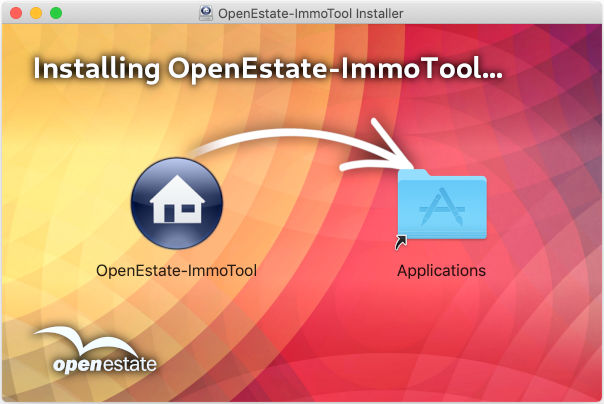
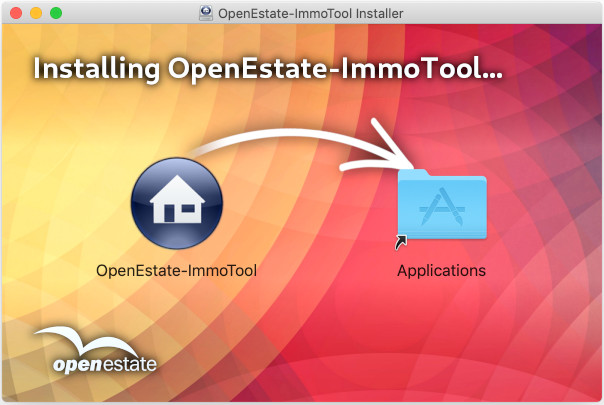
prefer PNG over JPG images

diff --git a/content/de/intro/install_server.md b/content/de/intro/install_server.md
@@ -32,7 +32,7 @@ Laden Sie die zu Ihrem Windows passende **EXE**-Installationsdatei herunter. Unt
 
 Öffnen Sie die heruntergeladene EXE-Datei mit einem Doppelklick. Es startet daraufhin ein Installationsprogramm, welches Sie durch die weiteren Schritte der Installation leitet.
 
-{{< figure src="install_server_windows.jpg" caption="Installation des ImmoTool-Servers unter Windows" >}}
+{{< figure src="install_server_windows.png" caption="Installation des ImmoTool-Servers unter Windows" >}}
 
 
 #### Installation unter macOS {#intro_install_server_setup_mac}
@@ -110,7 +110,7 @@ Darüber hinaus können Sie das Programm auch über die Datei `Start.exe` / `Sta
 
 Führen Sie einen Doppelklick auf das Programmsymbol mit der Bezeichnung **OpenEstate-ImmoServer** aus. Es öffnet sich daraufhin der Finder mit den vom ImmoTool-Server bereitgestellten Programmen.
 
-{{< figure src="install_server_mac_startup.jpg" caption="Starter für ImmoTool-Server im Finder" >}}
+{{< figure src="install_server_mac_startup.png" caption="Starter für ImmoTool-Server im Finder" >}}
 
 Wenn Sie in diesem Fenster auf das **Start**-Symbol klicken, wird das Programm gestartet.
 
@@ -132,7 +132,7 @@ Installieren Sie dafür das ImmoTool auf dem Server-Rechner oder einem anderen R
 Link einfügen, wie das AdminTool gestartet werden kann
 {{< /todo >}}
 
-{{< figure src="install_server_admintool_connect.jpg" caption="Verbindung zur Datenbank mit AdminTool herstellen" >}}
+{{< figure src="install_server_admintool_connect.png" caption="Verbindung zur Datenbank mit AdminTool herstellen" >}}
 
 Im dargestellten Fenster muss die Option **"Mit entfernter Datenbank verbinden (auf Server gespeichert)"** gewählt werden. Danach können die Verbindungsdaten des ImmoTool-Servers eingetragen werden: 
 
@@ -161,11 +161,11 @@ Nach einem Klick auf **"Verbinden"** verbindet sich das AdminTool mit dem ImmoTo
 
 Im ersten Schritt wird das Programm feststellen, dass der Administrator-Benutzer (**"SA"**) noch kein Passwort zugewiesen hat und um die Eingabe eines Passwortes bitten. Notieren Sie sich dieses Passwort!
 
-{{< figure src="install_server_admintool_password.jpg" caption="Passwort des Administrators im AdminTool festlegen" >}}
+{{< figure src="install_server_admintool_password.png" caption="Passwort des Administrators im AdminTool festlegen" >}}
 
 Im folgenden Schritt wird das Programm feststellen, dass die Datenbank noch nicht eingerichtet wurde. Klicken Sie im Dialogfenster **"Neues Projekt erzeugen""** auf **"Übernehmen""** um die Datenbank zur Verwendung für das ImmoTool vorzubereiten. 
 
-{{< figure src="install_server_admintool_setup.jpg" caption="Installation der Datenbank im ImmoTool-Server" >}}
+{{< figure src="install_server_admintool_setup.png" caption="Installation der Datenbank im ImmoTool-Server" >}}
 
 Nachdem diese Schritte abgeschlossen sind, können Sie bei Bedarf über das AdminTool weitere Benutzerkonten in der Datenbank anlegen. 
 
@@ -182,7 +182,7 @@ Nachdem der ImmoTool-Server erfolgreich vorbereitet wurde (siehe ["ImmoTool-Serv
 
 Auf **jedem Arbeitsplatz** muss dafür das ImmoTool installiert werden (siehe ["ImmoTool installieren"]({{< relref "install_client.md#intro_install_client" >}})). Nach dem Programmstart (siehe ["ImmoTool starten"]({{< relref "install_client.md#intro_install_client_startup" >}})) muss ein sogenanntes **Mehrplatz-Projekt** angelegt werden. Öffnen Sie dafür den Projekt-Assistenten (falls dieser nicht automatisch startet via **"Hauptmenü → Projekt → neues Projekt"**).
 
-{{< figure src="install_server_immotool_project.jpg" caption="Neues Mehrplatz-Projekt im Projekt-Assistenten einrichten" >}}
+{{< figure src="install_server_immotool_project.png" caption="Neues Mehrplatz-Projekt im Projekt-Assistenten einrichten" >}}
 
 Folgende Einstellungen sind im Projekt-Assistenten vorzunehmen:
 
@@ -217,4 +217,4 @@ Bevor das Projekt erzeugt werden kann, muss auf **"Anmelden"** geklickt werden. 
 
 Bei zukünftigen Programmstarts kann das erzeugte Mehrplatz-Projekt im Programm geöffnet werden. Der Benutzer muss sich dann nur noch mit seinem Benutzernamen und Passwort authentifizieren. 
 
-{{< figure src="install_server_immotool_login.jpg" caption="Anmeldung an einem bestehenden Mehrplatz-Projekt" >}}
+{{< figure src="install_server_immotool_login.png" caption="Anmeldung an einem bestehenden Mehrplatz-Projekt" >}}

diff --git a/content/de/intro/install_client.md b/content/de/intro/install_client.md
@@ -26,7 +26,7 @@ Laden Sie die zu Ihrem Windows passende **EXE**-Installationsdatei herunter. Unt
 
 Öffnen Sie die heruntergeladene EXE-Datei mit einem Doppelklick. Es startet daraufhin ein Installationsprogramm, welches Sie durch die weiteren Schritte der Installation leitet.
 
-{{< figure src="install_client_windows.jpg" caption="Installation des ImmoTools unter Windows" >}}
+{{< figure src="install_client_windows.png" caption="Installation des ImmoTools unter Windows" >}}
 
 
 #### Installation unter macOS {#intro_install_client_setup_mac}
@@ -96,7 +96,7 @@ Darüber hinaus können Sie das Programm auch über die Datei `ImmoTool.exe` / `
 
 Führen Sie einen Doppelklick auf das Programmsymbol mit der Bezeichnung **OpenEstate-ImmoTool** aus. Es öffnet sich daraufhin der Finder mit den vom ImmoTool bereitgestellten Programmen.
 
-{{< figure src="install_client_mac_startup.jpg" caption="Starter für ImmoTool im Finder" >}}
+{{< figure src="install_client_mac_startup.png" caption="Starter für ImmoTool im Finder" >}}
 
 Wenn Sie in diesem Fenster auf das **ImmoTool**-Symbol klicken, wird das Programm gestartet.
 
@@ -118,7 +118,7 @@ Alternativ zum Startmenü kann das Programm über die Datei `ImmoTool.sh` im `bi
 
 Beim ersten Programmstart prüft das ImmoTool ob eine Übersetzung zu der im Betriebssystem eingestellten Sprache vorliegt. Sollte dies nicht der Fall sein, erscheint das folgende Fenster, in dem Sie die im ImmoTool verwendete Sprache auswählen können:
 
-{{< figure src="install_client_language.jpg" caption="Auswahl der Sprache beim ersten Programmstart" >}}
+{{< figure src="install_client_language.png" caption="Auswahl der Sprache beim ersten Programmstart" >}}
 
 Es werden hier nur Sprachen zur Auswahl gestellt, für die aktuell eine Übersetzung vorliegt und für die ein Sprachpaket im Programm enthalten ist.
 
@@ -132,10 +132,10 @@ Das ImmoTool kann in beliebige Sprachen übersetzt werden. Wenn Sie sich an der 
 Der Projektassistent wird geöffnet und Sie können eine Datenbank für Ihre Arbeit mit dem ImmoTool erzeugen.
 
 {{< warning >}}
-Wenn Sie eine **Netzwerk-Installation** durchführen möchten (siehe ["Betrieb an mehreren Arbeitsplätzen"](install_types.md#intro_install_types_network)), folgen Sie bitte den Hinweisen im Kapitel ["ImmoTool-Server installieren"](install_server.md#intro_install_server). Ein Einzelplatz-Projekt muss in diesem Falle **nicht** erzeugt werden.
+Wenn Sie eine **Netzwerk-Installation** durchführen möchten (siehe ["Betrieb an mehreren Arbeitsplätzen"]({{< relref "install_types.md#intro_install_types_network" >}})), folgen Sie bitte den Hinweisen im Kapitel ["ImmoTool-Server installieren"]({{< relref "install_server.md#intro_install_server" >}}). Ein Einzelplatz-Projekt muss in diesem Falle **nicht** erzeugt werden.
 {{< /warning >}}
 
-{{< figure src="install_client_project.jpg" caption="Einzelplatz-Projekt beim ersten Programmstart erzeugen" >}}
+{{< figure src="install_client_project.png" caption="Einzelplatz-Projekt beim ersten Programmstart erzeugen" >}}
 
 Folgende Einstellungen sind im Projektassistenten zur Erstellung eines Einzelplatz-Projekts vorzunehmen:
 

diff --git a/NOTES.de.md b/NOTES.de.md
@@ -109,13 +109,13 @@ Dies ist [ein Beispiel](#my_headline) für einen internen Link.
 Bilder sollten sich in der Regel im gleichen Ordner wie die Markdown-Datei befinden, welche sie einbindet. In diesem Fall kann ein das Bild durch folgende Syntax eingebunden werden:
 
 ```md
-{{< figure src="image.jpg" caption="Untertitel des Bildes" >}}
+{{< figure src="image.png" caption="Untertitel des Bildes" >}}
 ``` 
 
 Sollte ein Bild aus einem anderen Ordner geladen werden müssen, kann eine relative Verlinkung genutzt werden:
 
 ```md
-{{< figure src="../folder/image.jpg" caption="Untertitel des Bildes" >}}
+{{< figure src="../folder/image.png" caption="Untertitel des Bildes" >}}
 ``` 
 
 
@@ -170,13 +170,23 @@ Um einen persönlichen Bezug zum Leser des Handbuchs herzustellen, kann der Lese
 
 ## Bilder
 
--   Bilder sollten grundsätzlich im **JPEG-Format** gespeichert werden.
+-   Bilder sollten möglichst im **PNG-Format** gespeichert werden.
 
--   Bilder sollten mit einer Qualitätsstufe von **75% bis 95%** gespeichert werden. Wenn die Lesbarkeit nicht negativ beeinträchtigt wird, sollte eine **möglichst geringe Qualitätsstufe** verwendet werden um den Speicherbedarf zu minimieren.
+    -   Es sollte eine **maximale Kompression** verwendet werden (Stufe 9).
+    
+    -   Die Speicherung der Vorschau, EXIF-Daten, XMP-Daten und IPTC-Daten sollte **deaktiviert** werden. 
+    
+    -   Falls Transparenz im Bild vorhanden ist, sollte ein weißer Hintergrund hinterlegt werden.
+
+-   Nur wenn ein erzeugtes PNG-Bild trotz der genannten Vorgaben unverhältnismäßig groß ist (in der Regel mehr als 100 KB), kann das Bild als **JPEG-Format** gespeichert werden.
+
+    -   Bilder im JPEG-Format sollten mit einer Qualitätsstufe von **90%** gespeichert werden.
+    
+    -   Wenn die Speicherung im JPEG-Format weniger als 20% Speicherplatz gegenüber dem PNG-Format einspart, ist das PNG-Format zu bevorzugen.
 
 -   Bei Screenshots sollte ein möglichst passender Bildausschnitt gewählt werden, sodass nur dir relevanten (zu dokumentierenden) Elemente sichtbar sind.
 
--   Bei Screenshots sollten keine Fenster-Dekorationen enthalten sein. 
+-   Wenn ein Screenshot für verschiedene Betriebssysteme relevant ist, sollten darin grundsätzlich keine Fenster-Dekorationen enthalten sein. 
 
 
 ## Fachbegriffe / Englische Bezeichnungen

diff --git a/NOTES.en.md b/NOTES.en.md
@@ -105,13 +105,13 @@ This is [an example](#my_headline) for an internal link.
 Images should be placed in the same folder as the referencing Markdown file. In this case use the following notation to embed an image file:
 
 ```md
-{{< figure src="image.jpg" caption="subtitle of the image" >}}
+{{< figure src="image.png" caption="subtitle of the image" >}}
 ``` 
 
 In the rare case, that the embedded image is already placed in another folder, you can use a relative path: 
 
 ```md
-{{< figure src="../folder/image.jpg" caption="subtitle of the image" >}}
+{{< figure src="../folder/image.png" caption="subtitle of the image" >}}
 ``` 
 
 
@@ -166,13 +166,23 @@ The reader can be approached directly with "you". In case you're translating int
 
 ## Images
 
--   Images should always be provided in **JPEG format**.
+-   In most cases images should always be provided in **PNG format**.
 
--   Images should be saved with a compression level between **75% and 95%**. In order to reduce memory consumption a lower compression is preferred - as long as the image is well readable.
+    -   Always use **maximal compression** (level 9).
+    
+    -   Don't save a preview, EXIF data, XMP data und IPTC data into the PNG file. 
+    
+    -   In case the image contains transparency, always include a white background.
+
+-   In case a PNG image consumes relatively much disk space despite of the above conditions, you might also use the **JPEG format**.
+
+    -   Images in JPEG format should be saved with a quality level of **90%**.
+    
+    -   If the JPEG format does not save at least 20% compared to a PNG file, the PNG format should be preferred.
 
 -   Screenshots should be cropped, that only the necessary / documented elements are visible.  
 
--   Screenshots should not contain any window decoration of the operating system. 
+-   If a screenshot is relevant for multiple operating systems, it should not contain the window decoration of the operating system it was taken from. 
 
 
 ## Technical terms

diff --git a/content/de/intro/install_types.md b/content/de/intro/install_types.md
@@ -62,7 +62,7 @@ Wenn mehrere Mitarbeiter von Ihrem Arbeitsplatz aus mit dem ImmoTool auf einen g
 
 Schematisch wird dies in folgender Grafik dargestellt (Quelle [Wikipedia](http://de.wikipedia.org/wiki/Client-Server-Modell)):
 
-{{< figure src="install_types_network.jpg" caption="Client-/Server-Modell" >}}
+{{< figure src="install_types_network.png" caption="Client-/Server-Modell" >}}
 
 Der ImmoTool-Server befindet sich im Zentrum des Bildes. Die einzelnen Rechner der Mitarbeiter, welche auf den ImmoTool-Server zugreifen, sind im Kreis angeordnet.
 
